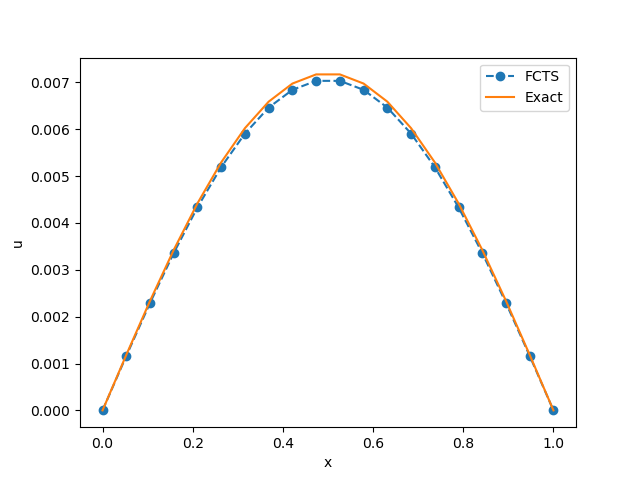
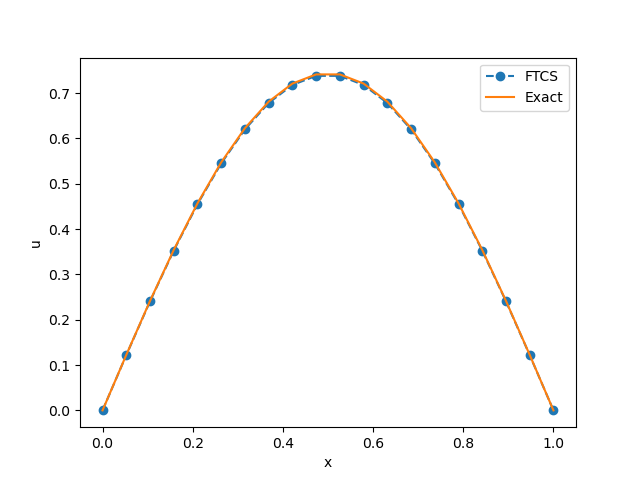
Pipsano dalje

diff --git a/primeri/toplota/heat1d.py b/primeri/toplota/heat1d.py
@@ -1,0 +1,51 @@
+import numpy as np
+import matplotlib.pyplot as plt 
+import sciann as sn
+from sciann.utils.math import diff, sign, sin, sqrt, exp
+from numpy import pi
+
+x = sn.Variable('x')
+t = sn.Variable('t')
+u = sn.Functional('u', [x,t], 3*[20], 'tanh')
+#alpha = sn.Parameter(0.2, inputs=[x,t], name="alpha")
+alpha = 0.4
+
+L1 = diff(u, t) - alpha * diff(u, x, order=2)
+
+TOL = 0.011
+TOLT=0.0011
+C1 = (1-sign(t - TOLT)) * (u - sin(pi*x))
+C2 = (1-sign(x - (0+TOL))) * (u)
+C3 = (1+sign(x - (1-TOL))) * (u)
+#C4 = (1 + sign(t-0.201)) * (1 - sign(t-0.219)) * (1 + sign(x-0.491)) * (1 - sign(x-0.509)) * (u-0.8)
+
+m = sn.SciModel([x, t], [L1, C1, C2, C3], 'mse', 'Adam')
+
+x_data, t_data = np.meshgrid(
+    np.linspace(0, 1, 101), 
+    np.linspace(0, 0.1, 101)
+)
+
+h = m.train([x_data, t_data], 4*['zero'], learning_rate=0.002, batch_size=128, epochs=500, 
+    adaptive_weights={'method':'NTK', 'freq':100})
+
+# Test
+nx, nt = 20, 10
+x_test, t_test = np.meshgrid(
+    np.linspace(0.01, 0.99, nx+1), 
+    np.linspace(0.01, 0.1, nt+1)
+)
+u_pred = u.eval(m, [x_test, t_test])
+
+#print(alpha.value)
+
+plt.plot(x_test[nt], u_pred[nt], 'o--', label='PINN')
+ue = np.sin(np.pi * x_test[nt]) * np.exp(-0.1 * alpha * (np.pi)**2)
+rmse = np.sqrt(sum((u_pred[nt]-ue)**2 / len(u_pred[nt])))
+print("RMSE:", rmse)
+plt.plot(x_test[nt], ue, '-', label='Exact')
+plt.xlabel("x")
+plt.ylabel("u")
+plt.legend()
+plt.show()
+

diff --git a/primeri/toplota/heat-fdm.py b/primeri/toplota/heat-fdm.py
@@ -1,0 +1,31 @@
+import numpy as np
+import matplotlib.pyplot as plt
+
+def heatFTCS(nt=10, nx=20, alpha=0.3, L=1, tmax=0.1):
+
+    h = L / (nx - 1)
+    k = tmax / (nt - 1)
+    r = alpha * k / h**2
+
+    x = np.linspace(0, L, nx)
+    t = np.linspace(0, tmax, nt)
+    U = np.zeros((nx, nt))
+
+    U[:, 0] = np.sin(np.pi * x / L)
+
+    for m in range(1, nt):
+        for i in range(1, nx-1):
+            U[i, m] = r * U[i - 1, m - 1] + (1-2*r) * U[i, m-1] + r * U[i+1, m-1]
+
+    ue = np.sin(np.pi * x / L) * \
+        np.exp(-t[nt - 1] * alpha * (np.pi / L) * (np.pi / L))
+
+    _, ax = plt.subplots()
+    ax.plot(x, U[:, nt - 1], 'o--', label='FTCS')
+    ax.plot(x, ue, '-', label='Exact')
+    plt.xlabel("x")
+    plt.ylabel("u")
+    ax.legend()
+    plt.show()
+
+heatFTCS()

diff --git a/toplota/2-sipka.rst b/toplota/2-sipka.rst
@@ -51,7 +51,7 @@
 .. code-block:: python
    :linenos:
 
-    def heatFTCS(nt=400, nx=20, alpha=1, L=1, tmax=0.5):
+    def heatFTCS(nt=10, nx=20, alpha=0.3, L=1, tmax=0.1):
         h = L / (nx - 1)
         k = tmax / (nt - 1)
         r = alpha * k / h**2
@@ -91,9 +91,70 @@
 .. math:: 
     :label: eq:granicni1
 
-    u(0,t)=u(1,t)=0, \, \forall t \\
-    u(0,x) = 100\sin{(\pi x)}
+    u(x=0,t)=u(x=1,t)=0, \, \forall t \\
+    u(x,t=0) = 100\sin{(\pi x)}
 
-потражићемо помоћу ФЗНН приступа. Иако је могуће да методе имплементирамо директно као :cite:t:`raissi2019physics` користећи оквира за дубоко учење као што је `Tensorflow <https://www.tensorflow.org/>`_, користићемо помоћ додатних библиотека које додатно апстрахују ФЗНН ентитете и омогућавају кориснику да се фокусира на проблема који решава. Овај пример решићемо користећи бибиотеку `SCIANN <https://www.sciann.com/>`_ аутора :cite:t:`haghighat2021sciann`. Поступак решавања објаснићемо увидом у код:
+потражићемо помоћу ФЗНН приступа. Иако је могуће да методе имплементирамо директно као :cite:t:`raissi2019physics` користећи оквира за дубоко учење као што је `Tensorflow <https://www.tensorflow.org/>`_, користићемо помоћ додатних библиотека које додатно апстрахују ФЗНН ентитете и омогућавају кориснику да се фокусира на проблема који решава. Овај пример решићемо користећи бибиотеку `SCIANN <https://www.sciann.com/>`_ аутора :cite:t:`haghighat2021sciann`. Поступак решавања објаснићемо кроз програмски код:
 
+.. code-block:: python
+   :linenos:
+
+    import numpy as np
+    import sciann as sn
+    from sciann.utils.math import diff, sign, sin, sqrt, exp
+    from numpy import pi
+
+    x = sn.Variable('x')
+    t = sn.Variable('t')
+    u = sn.Functional('u', [x,t], 3*[20], 'tanh')
+    alpha = 0.4
+
+    L1 = diff(u, t) - alpha * diff(u, x, order=2)
+
+    TOLX = 0.011
+    TOLT = 0.0011
+    C1 = (1-sign(t - TOLT)) * (u - sin(pi*x))
+    C2 = (1-sign(x - (0+TOLX))) * (u)
+    C3 = (1+sign(x - (1-TOLX))) * (u)
+
+    m = sn.SciModel([x, t], [L1, C1, C2, C3], 'mse', 'Adam')
+
+    x_data, t_data = np.meshgrid(
+        np.linspace(0, 1, 101), 
+        np.linspace(0, 0.1, 101)
+    )
+
+    h = m.train([x_data, t_data], 4*['zero'], learning_rate=0.002, batch_size=256, epochs=500)
+    
+    # Test
+    nx, nt = 20, 10
+    x_test, t_test = np.meshgrid(
+        np.linspace(0.01, 0.99, nx+1), 
+        np.linspace(0.01, 0.1, nt+1)
+    )
+    u_pred = u.eval(m, [x_test, t_test])
+
+Варијабле *x* и *t* се на поечтку дефинишу на прописани начин. Основни појам који се користи у SCIANN библиотеци за апстракцију ФЗНН је функционал, који је овде означен са *u*, као улаз узима *x* и *t*, има 3 скривена слоја са по 20 неурона и као активацију свих неурона узима функцију хиперболичког тангенса. Први сабирак копозитне функције губитка произилази из саме диференцијалне једначине :math:numref:`eq:toplota1`. Као што се види, за диференцијрање се користи специјални оператор ``diff()`` из библиотеке. Најзанимљивији и не баш тако очигледан је начин дефинисања почетног услова ``C1`` и граничних услова ``C2`` и ``C3``. На пример, ``C1`` је нула у свим тачкама узорковања осим за :math:`t \le TOLT`. Уместо функције знака ``sign``, могу се користити и глаткије функције, као што је хиперболички тангенс. ФЗНН модел се формира помоћу `SciModel` конструктора који дефинише и тип функције губитка и алгоритам оптимизације, тј. обучавања. Обучавање модела се покреће методом ``train()``, при чему се наводе следећи параметри:
+
+* **Скуп колокационих тачака за тренирање**.  Овде је то правилна еквидистантна мрежа тачака по обе варијабле. 
+* **Почетне вредности компоненти функције губитка**. Уобичајено је да се на почетку поставе на нуле.
+* **Стопа учења**,
+* **Величина *batch*-a**. Треба имати на уму да ако је број тачака домена у којима се намећу гранични услови значајно мањи у односу на укупан број колокационих тачака, параметар  оптимизације ``batch_size`` треба да буде подешен на велики број који гарантује доследну оптимизацију мини *batch*-a. У супротном, може да се деси да неки мини *batch*-еви не добију никакве податке о граничним условима и стога не генеришу тачан градијент за ажурирање методом градијентног спуста. 
+* **Број епоха**.
+
+.. _loss1:
+
+.. figure:: loss1.png
+    :width: 80%
+
+    Историја обуке једнодимензионог модела провођења топлоте.
+
+Ток обуке можемо да испратимо кроз стандардне *Tensorflow* објекте, као што је ``h.history['loss']``, као што се види на :numref:`loss1`. Пошто се заврши обука ФЗНН-а можемо формирати тестни скуп тачака слично као што смо то учинили и са колокационим тачкама и проверити резултате предикције позивом методе ``eval()`` на објекту модела. Резултат поља темперљатуре дуж штапа у тренутку *t=0.1* и његово поређење са егзактним решењем види се на :numref:`heat1`.
+
+.. _heat1:
+
+.. figure:: heat-pinn1.png
+    :width: 80%
+
+    Поље темперљатуре дуж штапа у тренутку *t=0.1* добијен методом ФЗНН.
 
